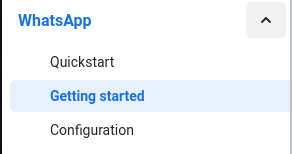
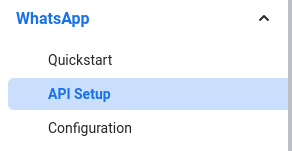
Edited: README.nd & and requirements.txt+  Renamed all env variables to capital-case

diff --git a/main.py b/main.py
@@ -11,10 +11,10 @@ app = Flask(__name__)
 # Load .env file
 load_dotenv(".env")
 messenger = WhatsApp(
-    os.getenv("whatsapp_token"), phone_number_id=os.getenv("phone_number_id")
+    os.getenv("WHATSAPP_TOKEN"), phone_number_id=os.getenv("PHONE_NUMBER_ID")
 )
-sarufi = Sarufi(api_key=os.getenv('sarufi_api_key'))
-chatbot = sarufi.get_bot(os.getenv("sarufi_bot_id"))
+sarufi = Sarufi(api_key=os.getenv('SARUFI_API_KEY'))
+chatbot = sarufi.get_bot(os.getenv("SARUFI_BOT_ID"))
 
 VERIFY_TOKEN = "30cca545-3838-48b2-80a7-9e43b1ae8ce4"
 
@@ -30,7 +30,7 @@ def respond(mobile: str, message: str, message_type: str = "text")->None:
     """
     try:
         response = sarufi.chat(
-            bot_id=os.getenv("sarufi_bot_id"),
+            bot_id=os.getenv("SARUFI_BOT_ID"),
             chat_id=mobile,
             message=message,
             message_type=message_type,

diff --git a/README.md b/README.md
@@ -43,7 +43,7 @@ Have [sarufi package](https://github.com/Neurotech-HQ/sarufi-python-sdk) install
 
   ```bash
   git clone https://github.com/Neurotech-HQ/sarufi-heyoo-blueprint.git
-  cd telegram-chatbot-blueprint
+  cd sarufi-heyoo-blueprint
   pip3 install -r requirements.txt
   ```
 
@@ -54,10 +54,10 @@ Have [sarufi package](https://github.com/Neurotech-HQ/sarufi-python-sdk) install
   With the file created, add the following credentials. With whatsapp cloud api, instructions are at the top where as for sarufi, please read on how to [get sarufi credentials](#getting-sarufi-credentials).
 
   ```bash
-   sarufi_api_key = Your API KEY
-   sarufi_bot_id   = Your Bot Id
-   whatsapp_token  = Your Whatsapp token
-   phone_number_id = whatsapp phone number id
+   SARUFI_API_KEY = Your API KEY
+   SARUFI_BOT_ID   = Your Bot Id
+   WHATSAPP_TOKEN  = Your Whatsapp token
+   PHONE_NUMBER_ID = whatsapp phone number id
   ```
 
 - Once you have environment variables set, you are ready to fire 🚀 your `main.py` in activated virtual envirnoment.
@@ -100,10 +100,10 @@ Have [sarufi package](https://github.com/Neurotech-HQ/sarufi-python-sdk) install
   Create
   |Secrete key | Description|
   |:--- |:--- |
-  |`phone_number_id` | Whatsapp cloud phone ID|
-  |`whatsapp_token` | Your whatsapp token|
-  |`sarufi_api_key` | Your sarufi API KEY|
-  |`sarufi_bot_id` | Your sarufi bot id|
+  |`PHONE_NUMBER_ID` | Whatsapp cloud phone ID|
+  |`WHATSAPP_TOKEN` | Your whatsapp token|
+  |`SARUFI_API_KEY` | Your sarufi API KEY|
+  |`SARUFI_BOT_ID` | Your sarufi bot id|
 
 - Run the script
 
@@ -124,9 +124,13 @@ To authorize our chabot, we are are going to use authorization keys from sarufi.
 
 ![Sarufi authorazation keys](./img/sarufi_authorization.png)
 
+For **Bot ID**, Navigate to settings(in your bot)>> copy `bot ID`.
+
 ## Setting whatsapp webhook
 
-Navigate to your whatsapp cloud account --> `configuration` --> edit --> then paste the url into callback url.
+Navigate to your whatsapp cloud account --> `configuration` -->(Webhook) edit --> then paste the url into callback url.
+
+For Verify token, open `main.py` copy the `VERIFY_TOKEN` --> paste into verify token in your whatsapp cloud --> **verify and save**.
 
 ![Web hook setup](./img/webhook_setup.png)
 
@@ -137,6 +141,14 @@ After veryfing and saving whatsapp webook, navigate to webhook fields --> click 
 ![Webhook fields subscription](./img/webhook_subscription.png)
 
 ## Sample Bot test
+
+Navigate to your whatsapp cloud account >> **API setup** >> scroll down to a field written `To`. Click manage phone number to add you phone number. Follow instructions till you finish
+
+Click **send message** to start testing your bot. You will receive a message from your test number which your will use in testing your bot.
+
+![Send Test Message to Your Number](/img/whatsapp-send-test-message.png)
+
+You can test WhatsApp by sending a message to your bot.
 
 With a bot deployed in Whatsapp, here is a sample of a pizza bot.
 ![Bot deployed in whatsapp](./img/sample.gif)
